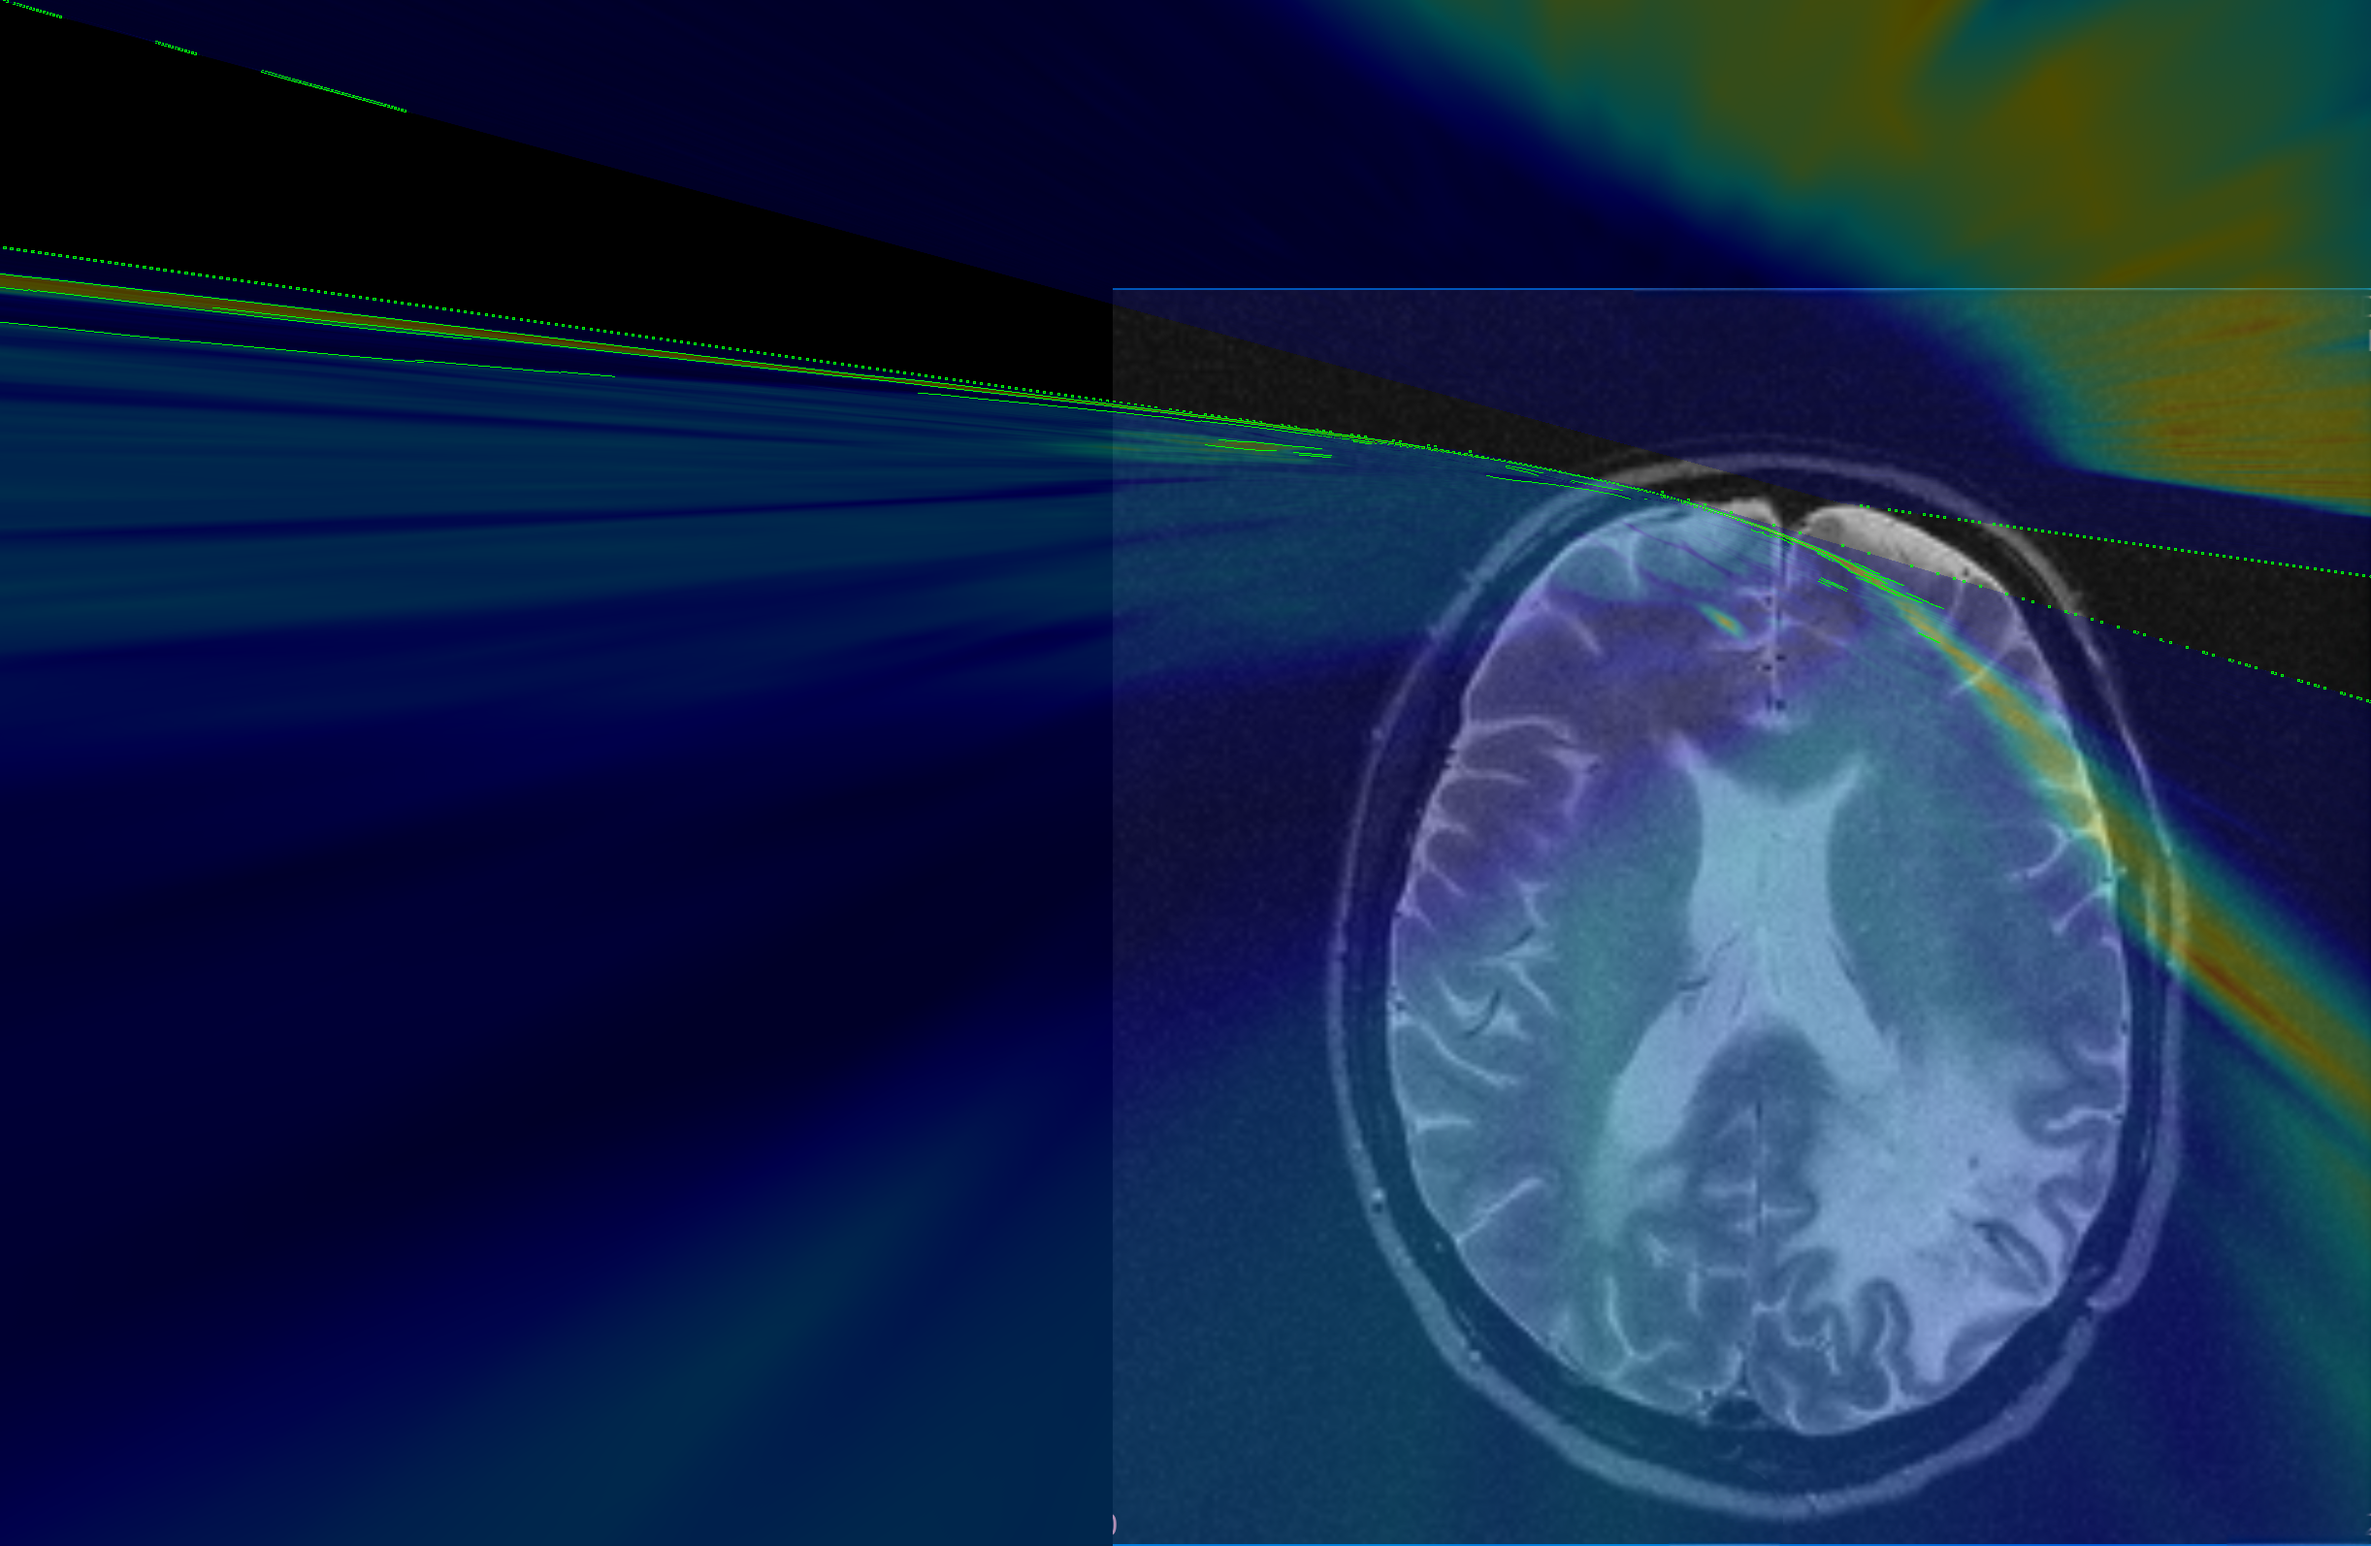
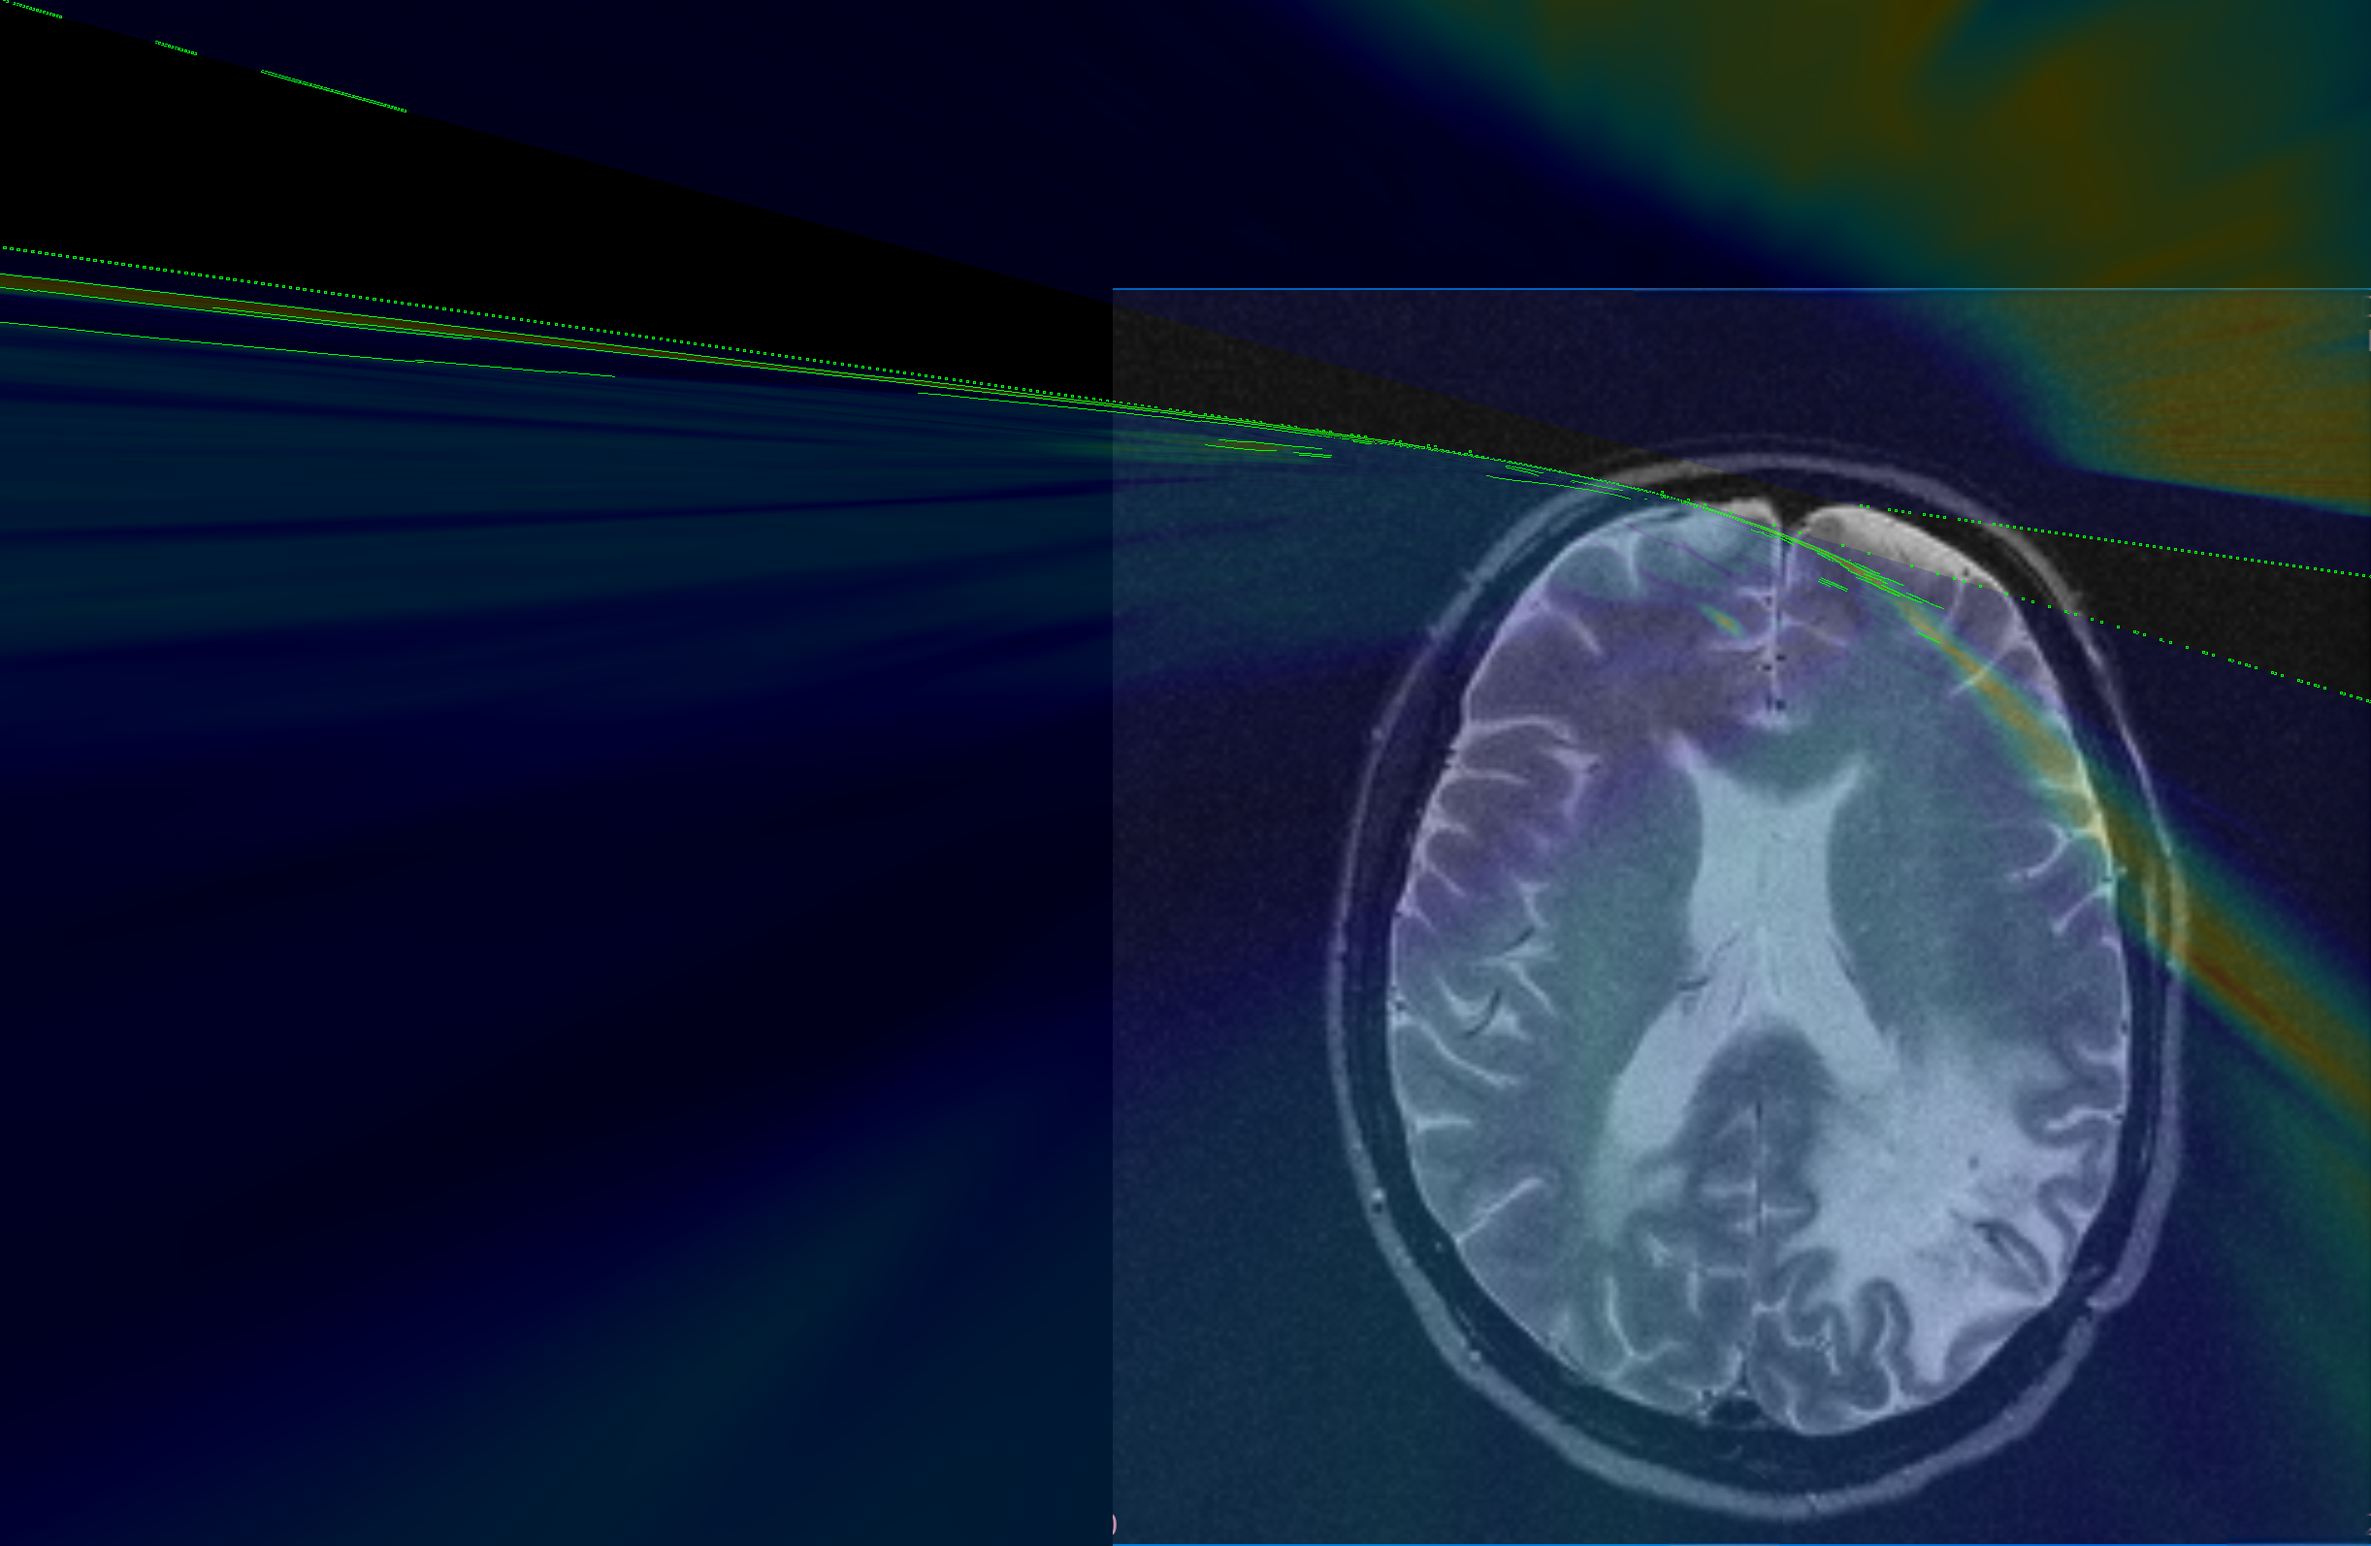
Update Homework1 Source Code

diff --git a/homework1/source/registration.py b/homework1/source/registration.py
@@ -16,7 +16,7 @@ import sift
 import utils
 
 
-def stitch_images(image1, image2, H, save_path, alpha=0.3):
+def stitch_images(image1, image2, H, save_path, alpha=0.2):
     """ 图像拼接并叠加热力图显示对准效果 """
 
     # 确保图像为三通道 (兼容灰度图)
